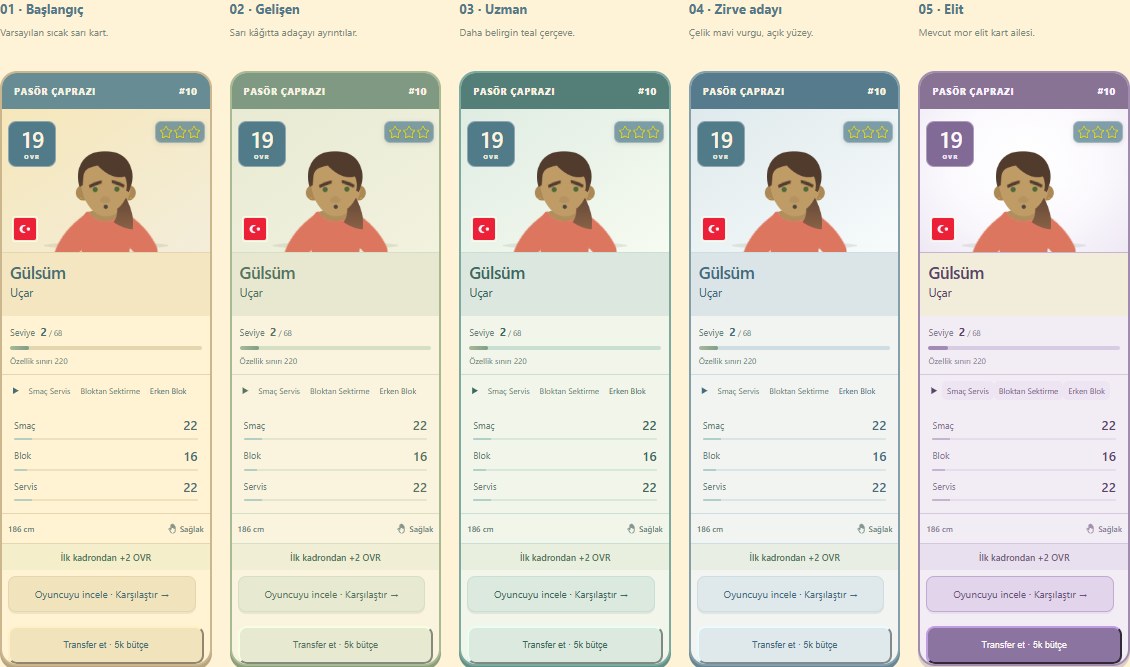
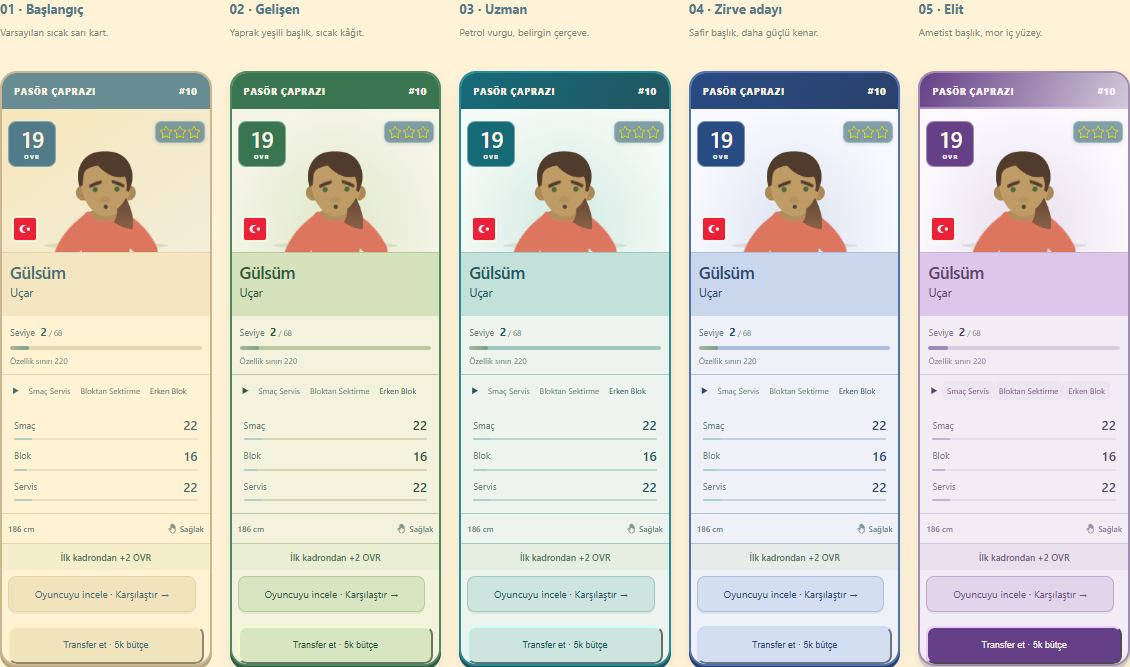
Strengthen card tier colors and progression contrast

diff --git a/elite-design-preview.css b/elite-design-preview.css
@@ -18,3 +18,21 @@ html,body{margin:0;background:#edf0e5;color:#365968;font:13px 'Segoe UI',system-
 @media(max-width:760px){#scoutDialog{padding:12px 14px 20px}.card-lab-grid{grid-template-columns:repeat(2,minmax(0,1fr));gap:20px 12px}}
 html.elite-preview-page #scoutDialog{width:100%!important;max-width:1240px!important;max-height:none!important;height:auto!important;}
 #scoutDialog .card-lab-grid .yellow{--club-edge:#cbb68d;--club-shadow:#b9a57d}#scoutDialog .card-lab-grid .growing{--club-edge:#a8ba92;--club-shadow:#8d9e7b}#scoutDialog .card-lab-grid .specialist{--club-edge:#7caaa0;--club-shadow:#659287}#scoutDialog .card-lab-grid .contender{--club-edge:#829fab;--club-shadow:#688695}#scoutDialog .card-lab-grid .elite-player{--club-kit:#887394;--club-edge:#a18bb3;--club-shadow:#82708f}
+/* Tier identity uses saturated edges over warm, quiet paper. */
+#scoutDialog #cardProgression .growing{--club-kit:#397551;--club-edge:#4d8a60;--club-shadow:#315b40;--club-paper:#f3f3dd;--club-soft:#dfe8c8;--club-name:#d5e2bc;--club-port:#f5f5e8;--club-ink:#2f573c;--club-line:#baca9e;--club-action:#d8e5c3}
+#scoutDialog #cardProgression .specialist{--club-kit:#176b79;--club-edge:#268a98;--club-shadow:#205662;--club-paper:#edf4ed;--club-soft:#d2e9e3;--club-name:#c3e0d9;--club-port:#f4faf5;--club-ink:#205663;--club-line:#a1c9c3;--club-action:#cde5de}
+#scoutDialog #cardProgression .contender{--club-kit:#294b83;--club-edge:#4d74b0;--club-shadow:#2a426c;--club-paper:#eef1f7;--club-soft:#dbe3f1;--club-name:#c9d6ec;--club-port:#f9faff;--club-ink:#2c4774;--club-line:#aebedc;--club-action:#d3def0}
+#scoutDialog #cardProgression .elite-player{--club-kit:#654086;--club-edge:#9c6ac0;--club-shadow:#4f326c;--club-paper:#f3ebf8;--club-soft:#e8d9f0;--club-name:#ddc6ea;--club-port:#fcfaff;--club-ink:#55316f;--club-muted:#7b638b;--club-line:#c8a8d9;--club-action:#e2ceee}
+html #scoutDialog #cardProgression .player-card:not(.yellow){border:2px solid var(--club-edge)!important;box-shadow:0 4px 0 var(--club-shadow),0 7px 13px #243e4218!important}
+#scoutDialog #cardProgression .player-card:not(.yellow) .player-overall{background:var(--club-kit)!important;color:#fff8ed!important;border:1px solid #ffffff60}
+#scoutDialog #cardProgression .player-card:not(.yellow) .card-art{background:radial-gradient(ellipse at 50% 85%,var(--club-soft),var(--club-port) 75%)!important}
+#scoutDialog #cardProgression .player-card:not(.yellow) .card-halo{background:transparent;border:1px solid var(--club-line)}
+#scoutDialog #cardProgression :is(.specialist,.contender,.elite-player) .card-top{background:linear-gradient(115deg,var(--club-kit),var(--club-shadow))!important}
+#scoutDialog #cardProgression .contender .card-name{border-bottom:2px solid var(--club-edge)}
+#scoutDialog #cardProgression .elite-player .card-name{border-bottom:3px double var(--club-edge)}
+#scoutDialog #cardProgression .elite-player .card-top{box-shadow:inset 0 -2px #e6c4fa80}
+#scoutDialog #cardProgression .elite-player .scout-hire{background:var(--club-kit)!important;color:#fff5ff!important;border-color:var(--club-edge)!important}
+#scoutDialog .card-lab-grid .potential-player{--club-kit:#4d7654;--club-edge:#77935b;--club-ink:#36543a;--club-line:#c1cda8}
+#scoutDialog .option-B .potential-player{--club-kit:#99622f;--club-edge:#b3854b;--club-ink:#754d2a;--club-line:#ddc3a1}
+#scoutDialog .option-C .potential-player{--club-kit:#276d75;--club-edge:#5d9998;--club-ink:#29585d;--club-line:#b1d1c9}
+#scoutDialog .option-D .potential-player{--club-kit:#66732f;--club-edge:#8d994e;--club-ink:#515c29;--club-line:#c7cf9e}

diff --git a/card-design-preview.html b/card-design-preview.html
@@ -1,1 +1,1 @@
-<!doctype html><html lang="tr" class="elite-preview-page"><head><meta charset="utf-8"><meta name="viewport" content="width=device-width,initial-scale=1"><title>Oyuncu kartı tasarımları</title><link rel="stylesheet" href="team.css?v=bcffe6b92c1a"><link rel="stylesheet" href="styles/ui/player-club-card.css?v=7db91e9213cb"><link rel="stylesheet" href="styles/ui/transfer-center.css?v=7bcc2f214fba"><link rel="stylesheet" href="ui-components.css?v=7134f0d3ab29"><link rel="stylesheet" href="elite-design-preview.css?v=67b99b8eeee0"></head><body><main id="scoutDialog"><section aria-labelledby="cardSeriesTitle"><header class="card-lab-heading"><small>KARTIN GÖRSEL GELİŞİMİ</small><h2 id="cardSeriesTitle">Sarı karttan elite</h2><p>Aynı oyuncu ve aynı OVR. Aşamalar, kartın görünüşünü karşılaştırmak içindir.</p></header><div id="cardProgression" class="card-lab-grid"></div></section><section aria-labelledby="potentialTitle"><header class="card-lab-heading"><small>AKADEMİ · POTANSİYELLİ GENÇLER</small><h2 id="potentialTitle">Geleceği henüz belli değil.</h2><p>Şimdiki OVR görünür. Mezuniyet gücü: ???</p></header><div id="eliteOptions" class="card-lab-grid"></div></section></main><script src="card-lab-template.js?v=f9ce24745e08"></script><script src="elite-design-preview.js?v=68656d1bd8c3"></script></body></html>
+<!doctype html><html lang="tr" class="elite-preview-page"><head><meta charset="utf-8"><meta name="viewport" content="width=device-width,initial-scale=1"><title>Oyuncu kartı tasarımları</title><link rel="stylesheet" href="team.css?v=bcffe6b92c1a"><link rel="stylesheet" href="styles/ui/player-club-card.css?v=7db91e9213cb"><link rel="stylesheet" href="styles/ui/transfer-center.css?v=7bcc2f214fba"><link rel="stylesheet" href="ui-components.css?v=7134f0d3ab29"><link rel="stylesheet" href="elite-design-preview.css?v=c5b88b4c595e"></head><body><main id="scoutDialog"><section aria-labelledby="cardSeriesTitle"><header class="card-lab-heading"><small>KARTIN GÖRSEL GELİŞİMİ</small><h2 id="cardSeriesTitle">Sarı karttan elite</h2><p>Aynı oyuncu ve aynı OVR. Aşamalar, kartın görünüşünü karşılaştırmak içindir.</p></header><div id="cardProgression" class="card-lab-grid"></div></section><section aria-labelledby="potentialTitle"><header class="card-lab-heading"><small>AKADEMİ · POTANSİYELLİ GENÇLER</small><h2 id="potentialTitle">Geleceği henüz belli değil.</h2><p>Şimdiki OVR görünür. Mezuniyet gücü: ???</p></header><div id="eliteOptions" class="card-lab-grid"></div></section></main><script src="card-lab-template.js?v=f9ce24745e08"></script><script src="elite-design-preview.js?v=f98430c0c23c"></script></body></html>

diff --git a/elite-design-preview.js b/elite-design-preview.js
@@ -5,7 +5,7 @@ function card(className,potential=false){
  if(potential){const note=document.createElement('div');note.className='card-potential';note.innerHTML='<span>Potansiyel</span><strong>???</strong>';note.title='Mezuniyet gücü eğitim sonunda belli olur. Şimdiki OVR üstte gösterilir.';el.querySelector('.card-cap').after(note);}
  return el;
 }
-const stages=[['yellow','01 · Başlangıç','Varsayılan sıcak sarı kart.'],['growing','02 · Gelişen','Sarı kâğıtta adaçayı ayrıntılar.'],['specialist','03 · Uzman','Daha belirgin teal çerçeve.'],['contender','04 · Zirve adayı','Çelik mavi vurgu, açık yüzey.'],['elite-player','05 · Elit','Mevcut mor elit kart ailesi.']];
+const stages=[['yellow','01 · Başlangıç','Varsayılan sıcak sarı kart.'],['growing','02 · Gelişen','Yaprak yeşili başlık, sıcak kâğıt.'],['specialist','03 · Uzman','Petrol vurgu, belirgin çerçeve.'],['contender','04 · Zirve adayı','Safir başlık, daha güçlü kenar.'],['elite-player','05 · Elit','Ametist başlık, mor iç yüzey.']];
 for(const [type,title,copy]of stages){const article=document.createElement('article');article.dataset.tier=type;const h=document.createElement('h3');h.textContent=title;const p=document.createElement('p');p.textContent=copy;article.append(h,p,card(type));document.getElementById('cardProgression').append(article);}
 const families=[['O','Normal referans','Karşılaştırmak için sarı kart.'],['A','Filiz','Krem kâğıt, adaçayı kenar ve küçük gelişim izi.'],['B','Keşif','Sıcak kâğıt ve defter çizgisi gibi çift kenar.'],['C','Ufuk','Açık kâğıt üzerinde sakin teal ayrıntılar.'],['D','Kozası','Yumuşak yeşil yüzey ve ince köşe vurguları.']];
 for(const [id,name,copy]of families){const article=document.createElement('article');article.className='option-'+id;const h=document.createElement('h3');h.textContent=id+' · '+name;const p=document.createElement('p');p.textContent=copy;const face=card(id==='O'?'yellow':'potential-player',id!=='O');face.dataset.designVariant=id;const pick=document.createElement('button');pick.type='button';pick.className='elite-pick';pick.disabled=id==='O';pick.textContent=id==='O'?'Normal referans':'Bu tasarımı seç';pick.setAttribute('aria-pressed','false');pick.onclick=()=>{document.querySelectorAll('.elite-pick:not(:disabled)').forEach(b=>{b.setAttribute('aria-pressed',String(b===pick));b.textContent=b===pick?'Seçildi':'Bu tasarımı seç';});parent.postMessage({type:'elite-design-choice',name:id+' · '+name,kind:'academy-potential'},'*');};article.append(h,p,face,pick);document.getElementById('eliteOptions').append(article);}

diff --git a/DESIGN-SYSTEM.md b/DESIGN-SYSTEM.md
@@ -33,7 +33,7 @@ Son inceleme ve tutarlılık düzeltmeleri: 24 Ekim 2026. Bu dosya, kullanıcın
 18. Akademi mezunu aynı isim/portreyle gelir. Elit sonuç mevcut mor oyuncu kartını kullanır; beyaza yakın portre zemini ve aynı kart sırası korunur. Ayrı elit etiketi yok. Normal mezuniyet kayıp olarak gösterilmez.
 19. Akademide yön ve yetenek kararları gencin gerçek portresiyle küçük konuşma penceresinde sunulur. Genç birinci ağızdan “Hocam, hangi yönümü geliştireyim?” / “Hocam, bugün hangi yeteneği çalışayım?” diye sorar. Seçim kaydolunca kısa yanıt verir, yumuşakça kapanır. Aynı menü ziyaretinde en fazla bir otomatik konuşma; diğer gençler portrelerindeki konuşma işaretinden açılır. Kapatılan soru aynı genç/aşama için otomatik tekrarlanmaz; manuel tekrar mümkündür. Eğitim beklemez.
 20. Maç kadrosu başlığının ortasında As / Yedek switch'i bulunur. As görünümü mevcut ilk altı/liberoyu, Yedek görünümü mevcut yedek koleksiyonunu aynı yüzeyde gösterir. Switch kadroyu değiştirmez. Portre/kart anatomisi, yükseltme, pozisyon filtresi ve mevcut oyuncu değişimi korunur. Tahtadan veya transferden oyuncuya yönlendirme, oyuncunun bulunduğu görünümü açar. Rol başına özel yedek ataması ve otomatik rotasyon henüz bu görünüm geçişine dahil değildir.
-21. Kart tasarım laboratuvarında üst sırada sarı başlangıç → gelişen → uzman → zirve adayı → mor elit görsel sırası bulunur. Alt sıra potansiyelli gençler için krem/adaçayı/teal alternatifleridir; mor elit görünümü kullanılmaz. Mevcut OVR sayısaldır, gelecekteki güç Potansiyel ??? olarak gösterilir. Sıralama yalnız tasarım önerisidir; yeni oyun ilerleme kuralları eklemez. Karakter .86 ölçekle 8px aşağı alınır; üretim portre kırpması değişmez.
+21. Kart tasarım laboratuvarında üst sırada sarı başlangıç → gelişen → uzman → zirve adayı → mor elit görsel sırası bulunur. Seviye ilerleyişinde açık kâğıt korunur; başlık/OVR/kenar yaprak yeşili → petrol → safir → ametist olarak daha tok renk taşır. İleri kartlarda isim alanı ve çerçeve de güçlenir; neon ve sürekli parlama yoktur. Alt sıra potansiyelli gençler için krem üzerinde yeşil/bakır/petrol/zeytin vurgularıdır; mor elit görünümü kullanılmaz. Mevcut OVR sayısaldır, gelecekteki güç Potansiyel ??? olarak gösterilir. Sıralama yalnız tasarım önerisidir; yeni oyun ilerleme kuralları eklemez. Karakter .86 ölçekle 8px aşağı alınır; üretim portre kırpması değişmez.
 
 ### Potansiyelli genç kartı alternatifleri
 
